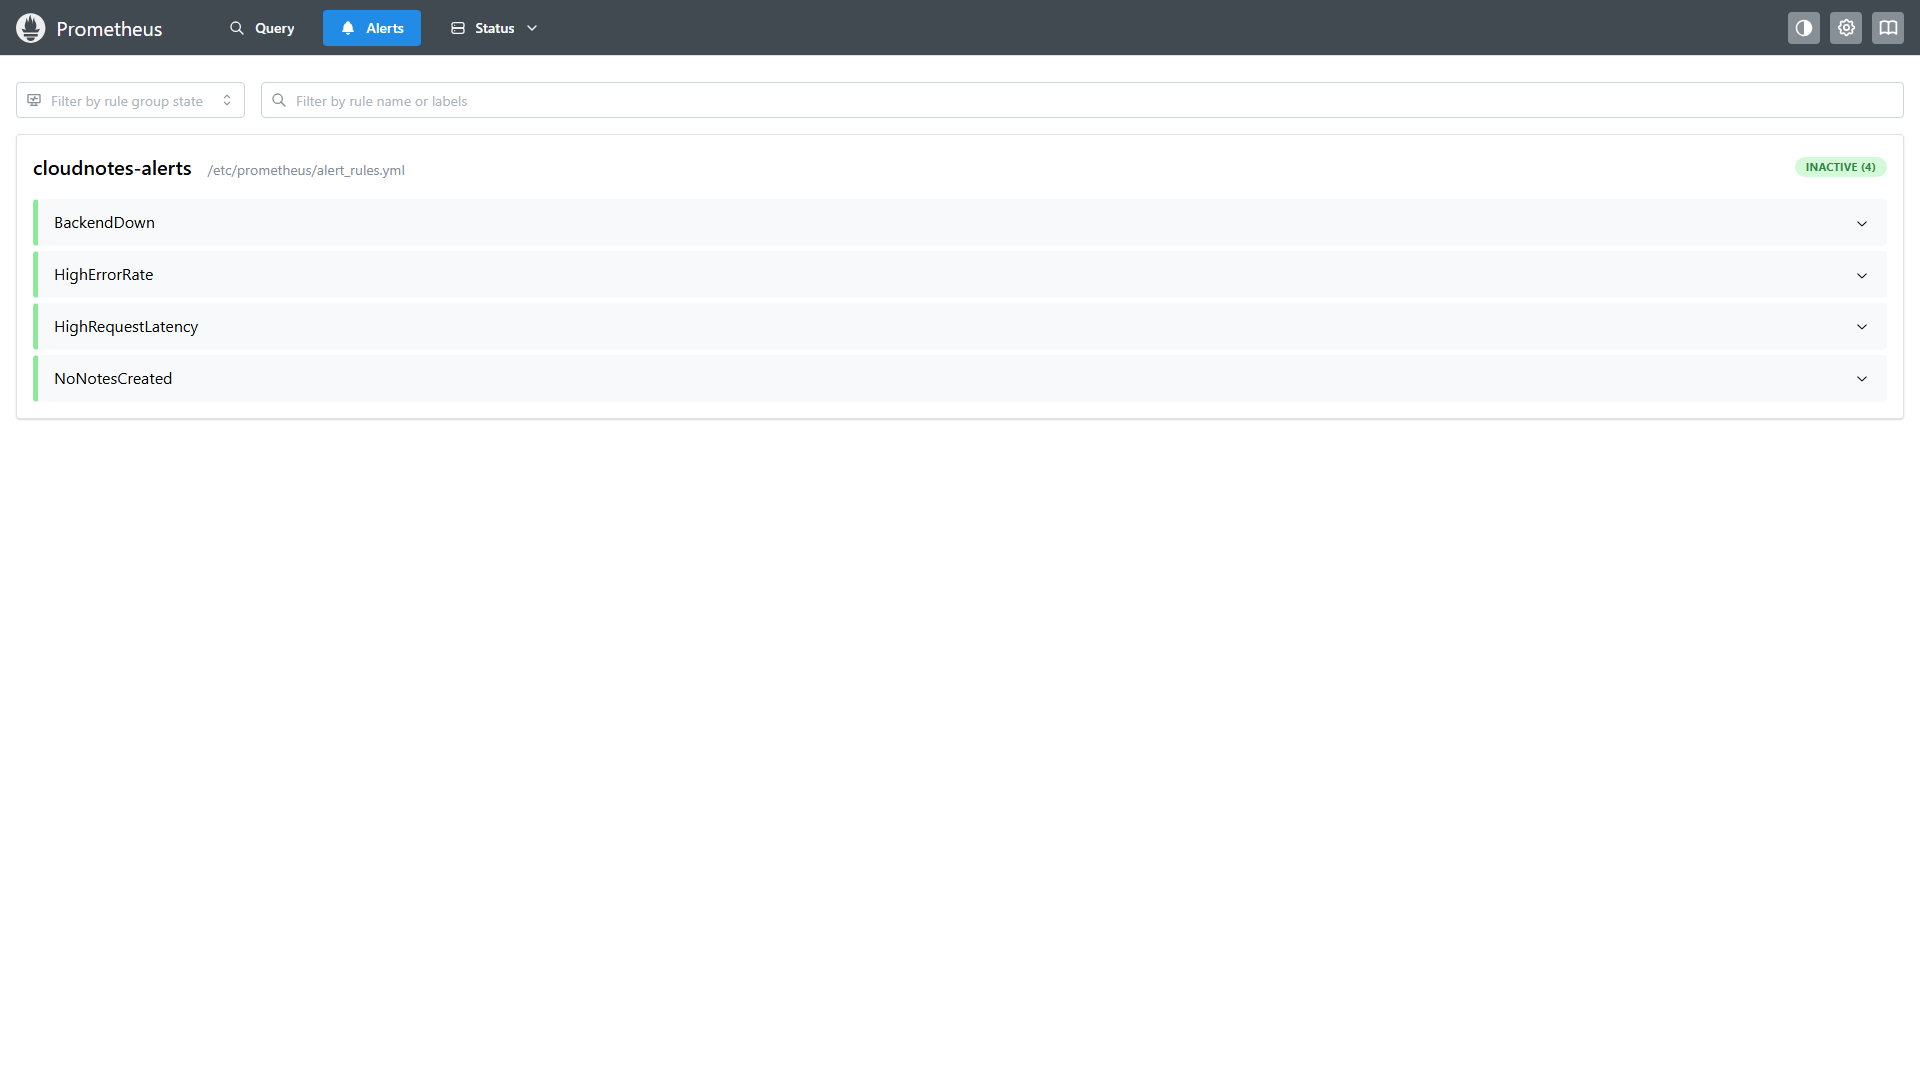
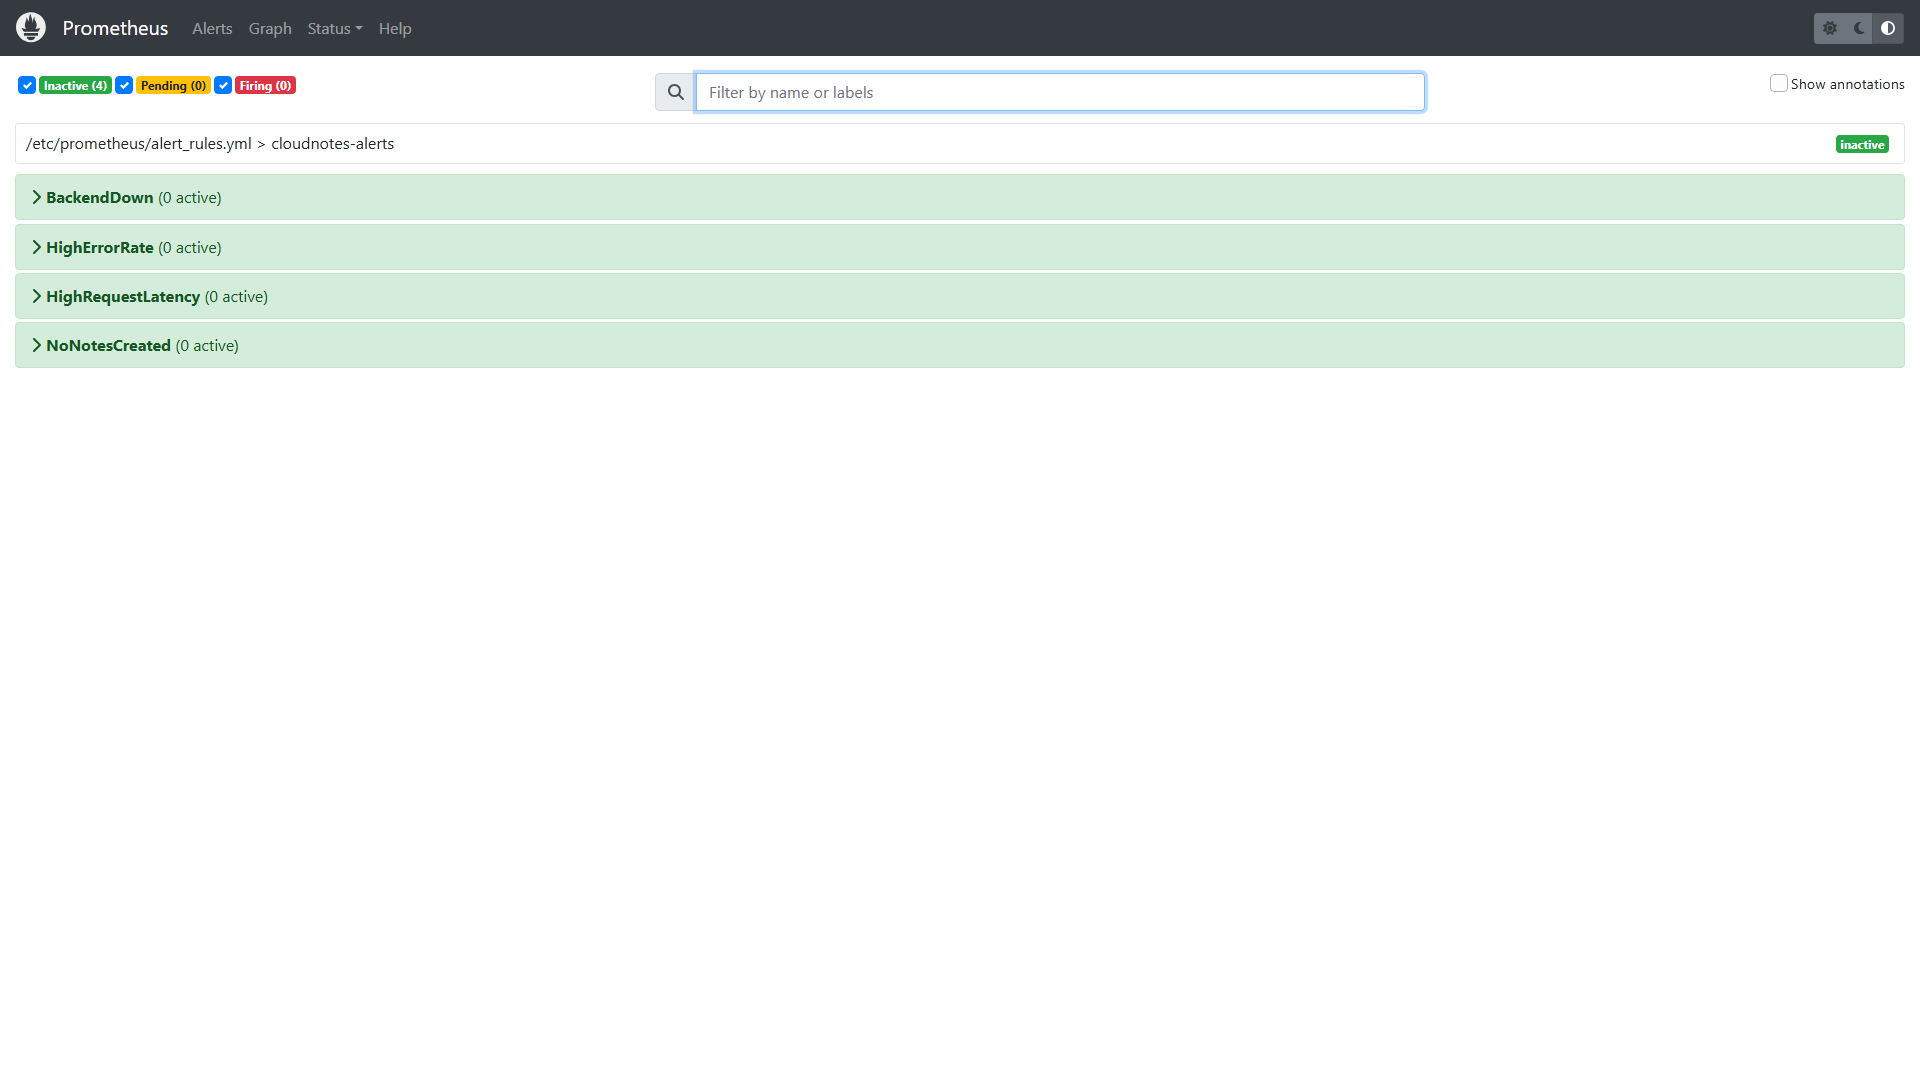
Refine zero-touch automation, harden Jenkins deployment resilience, and dynamic IP discovery

diff --git a/tests/e2e/puppeteer_test.js b/tests/e2e/puppeteer_test.js
@@ -1,7 +1,24 @@
 const puppeteer = require('puppeteer');
 const path = require('path');
+const fs = require('fs');
 
 (async () => {
+  let appIp = '3.108.191.94';
+  let jenkinsIp = '3.6.90.59';
+
+  const tfstatePath = path.join(__dirname, '..', '..', 'terraform', 'terraform.tfstate');
+  if (fs.existsSync(tfstatePath)) {
+    try {
+      const tf = JSON.parse(fs.readFileSync(tfstatePath, 'utf8'));
+      if (tf.outputs && tf.outputs.app_public_ip && tf.outputs.app_public_ip.value) {
+        appIp = tf.outputs.app_public_ip.value;
+      }
+      if (tf.outputs && tf.outputs.jenkins_public_ip && tf.outputs.jenkins_public_ip.value) {
+        jenkinsIp = tf.outputs.jenkins_public_ip.value;
+      }
+    } catch (e) {}
+  }
+
   const browser = await puppeteer.launch({ headless: true, args: ['--no-sandbox', '--disable-web-security'] });
   const page = await browser.newPage();
   await page.setViewport({ width: 1280, height: 800 });
@@ -18,10 +35,10 @@ const path = require('path');
   };
 
   const localAppUrl = process.env.LOCAL_APP_URL || 'http://localhost:80';
-  const awsAppUrl = process.env.AWS_APP_URL || (process.env.APP_IP ? `http://${process.env.APP_IP}/` : 'http://localhost:80');
-  const jenkinsUrl = process.env.JENKINS_URL || (process.env.JENKINS_IP ? `http://${process.env.JENKINS_IP}:8080/job/CloudNotes-Pipeline/` : 'http://localhost:8080/job/CloudNotes-Pipeline/');
-  const grafanaUrl = process.env.GRAFANA_URL || 'http://localhost:3001';
-  const promUrl = process.env.PROMETHEUS_URL || 'http://localhost:9091';
+  const awsAppUrl = process.env.AWS_APP_URL || (process.env.APP_IP ? `http://${process.env.APP_IP}/` : `http://${appIp}/`);
+  const jenkinsUrl = process.env.JENKINS_URL || (process.env.JENKINS_IP ? `http://${process.env.JENKINS_IP}:8080/job/CloudNotes-Pipeline/` : `http://${jenkinsIp}:8080/job/CloudNotes-Pipeline/`);
+  const grafanaUrl = process.env.GRAFANA_URL || (process.env.APP_IP ? `http://${process.env.APP_IP}:3001` : `http://${appIp}:3001`);
+  const promUrl = process.env.PROMETHEUS_URL || (process.env.APP_IP ? `http://${process.env.APP_IP}:9091` : `http://${appIp}:9091`);
 
   await takeShot('goal_local_app.png', localAppUrl);
   await takeShot('goal_aws_app.png', awsAppUrl);

diff --git a/scripts/compare_jenkins_screenshots.py b/scripts/compare_jenkins_screenshots.py
@@ -2,7 +2,23 @@ import time
 import os
 from playwright.sync_api import sync_playwright
 
-JENKINS_URL = "http://localhost:8080"
+import sys
+import json
+from pathlib import Path
+
+ROOT = Path(__file__).resolve().parents[1]
+jenkins_ip = "3.6.90.59"
+tfstate_file = ROOT / "terraform" / "terraform.tfstate"
+if tfstate_file.exists():
+    try:
+        with open(tfstate_file, "r", encoding="utf-8") as f:
+            tf = json.load(f)
+            if "outputs" in tf and "jenkins_public_ip" in tf["outputs"]:
+                jenkins_ip = tf["outputs"]["jenkins_public_ip"]["value"]
+    except Exception:
+        pass
+
+JENKINS_URL = sys.argv[1] if len(sys.argv) > 1 else os.getenv("JENKINS_URL", f"http://{jenkins_ip}:8080")
 
 with sync_playwright() as p:
     browser = p.chromium.launch(headless=True, args=["--disable-gpu", "--no-sandbox"])

diff --git a/scripts/test_traffic_scaling.py b/scripts/test_traffic_scaling.py
@@ -2,7 +2,25 @@ import urllib.request
 import time
 import concurrent.futures
 
-TARGET_URL = "http://3.108.191.94/api/notes"
+import os
+import sys
+import json
+from pathlib import Path
+
+ROOT = Path(__file__).resolve().parents[1]
+app_ip = "3.108.191.94"
+tfstate_file = ROOT / "terraform" / "terraform.tfstate"
+if tfstate_file.exists():
+    try:
+        with open(tfstate_file, "r", encoding="utf-8") as f:
+            tf = json.load(f)
+            if "outputs" in tf and "app_public_ip" in tf["outputs"]:
+                app_ip = tf["outputs"]["app_public_ip"]["value"]
+    except Exception:
+        pass
+
+app_host = sys.argv[1] if len(sys.argv) > 1 else os.getenv("APP_IP", app_ip)
+TARGET_URL = f"http://{app_host}/api/notes"
 
 def fetch(i):
     try:
